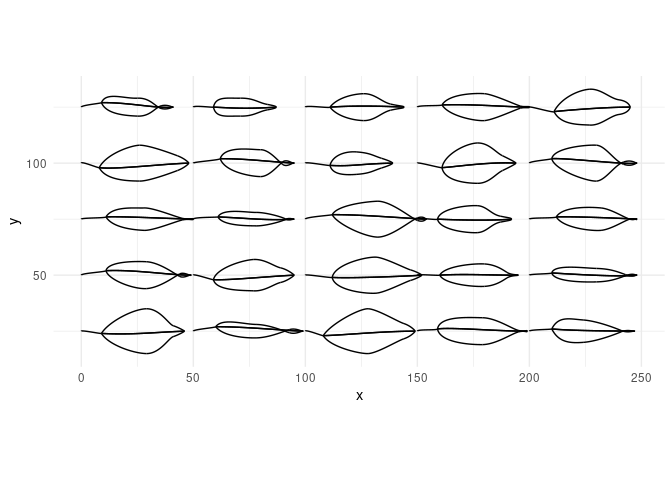
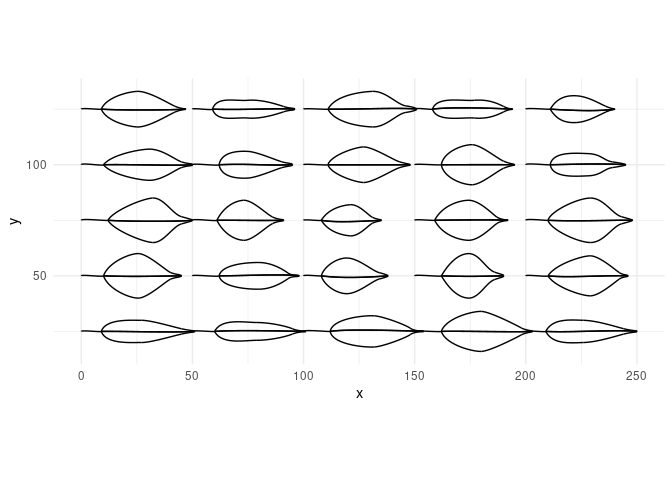
fix r cmd check

diff --git a/tests/testthat/_snaps/generate_data.md b/tests/testthat/_snaps/generate_data.md
@@ -7,15 +7,15 @@
          i         x     y
          <chr> <dbl> <dbl>
        1 1        20  40  
-       2 1        21  34  
-       3 1        28  30.5
-       4 1        33  31  
-       5 2        33  31  
-       6 2        38  31.5
-       7 2        43  37.2
-       8 2        47  38.6
-       9 3        47  38.6
-      10 3        51  40.0
+       2 1        22  36  
+       3 1        29  35.2
+       4 1        34  35  
+       5 2        34  35  
+       6 2        39  34.8
+       7 2        43  37.3
+       8 2        45  38.8
+       9 3        45  38.8
+      10 3        47  40.2
       # ... with 26 more rows
 
 # generated bezier branch dataframe still the same
@@ -30,11 +30,11 @@
        2  84    245  <NA>  <NA>       
        3 126    217  <NA>  <NA>       
        4 168    217  <NA>  <NA>       
-       5  84.1  265. 1_1   leaf_bezier
-       6  85.8  260. 1_1   leaf_bezier
-       7  95.5  253. 1_1   leaf_bezier
-       8 101.   252. 1_1   leaf_bezier
-       9 101.   252. 2_1   leaf_bezier
-      10 107.   250. 2_1   leaf_bezier
+       5  84.4  266. 1_1   leaf_bezier
+       6  84.8  260. 1_1   leaf_bezier
+       7  96.7  258. 1_1   leaf_bezier
+       8 101.   257. 1_1   leaf_bezier
+       9 101.   257. 2_1   leaf_bezier
+      10 104.   256. 2_1   leaf_bezier
       # ... with 426 more rows
 
